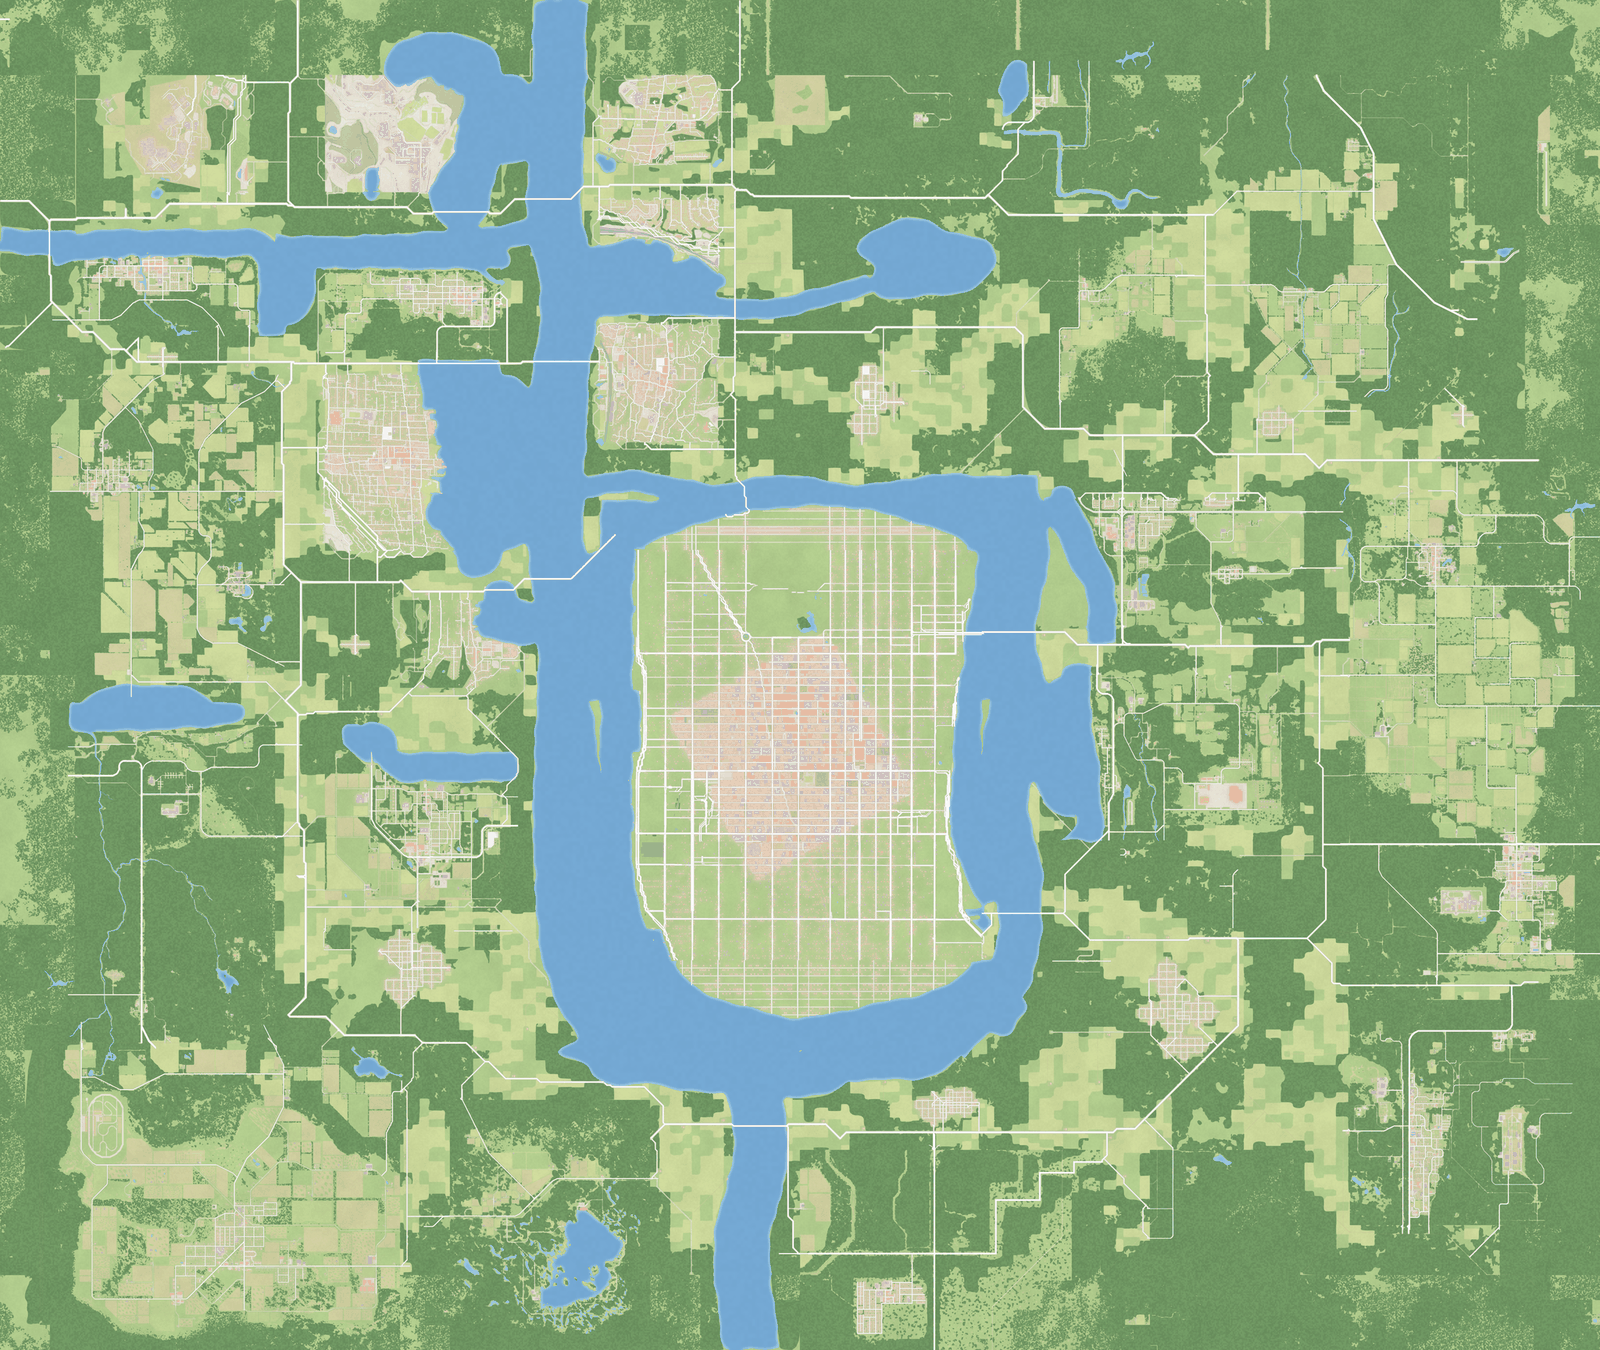
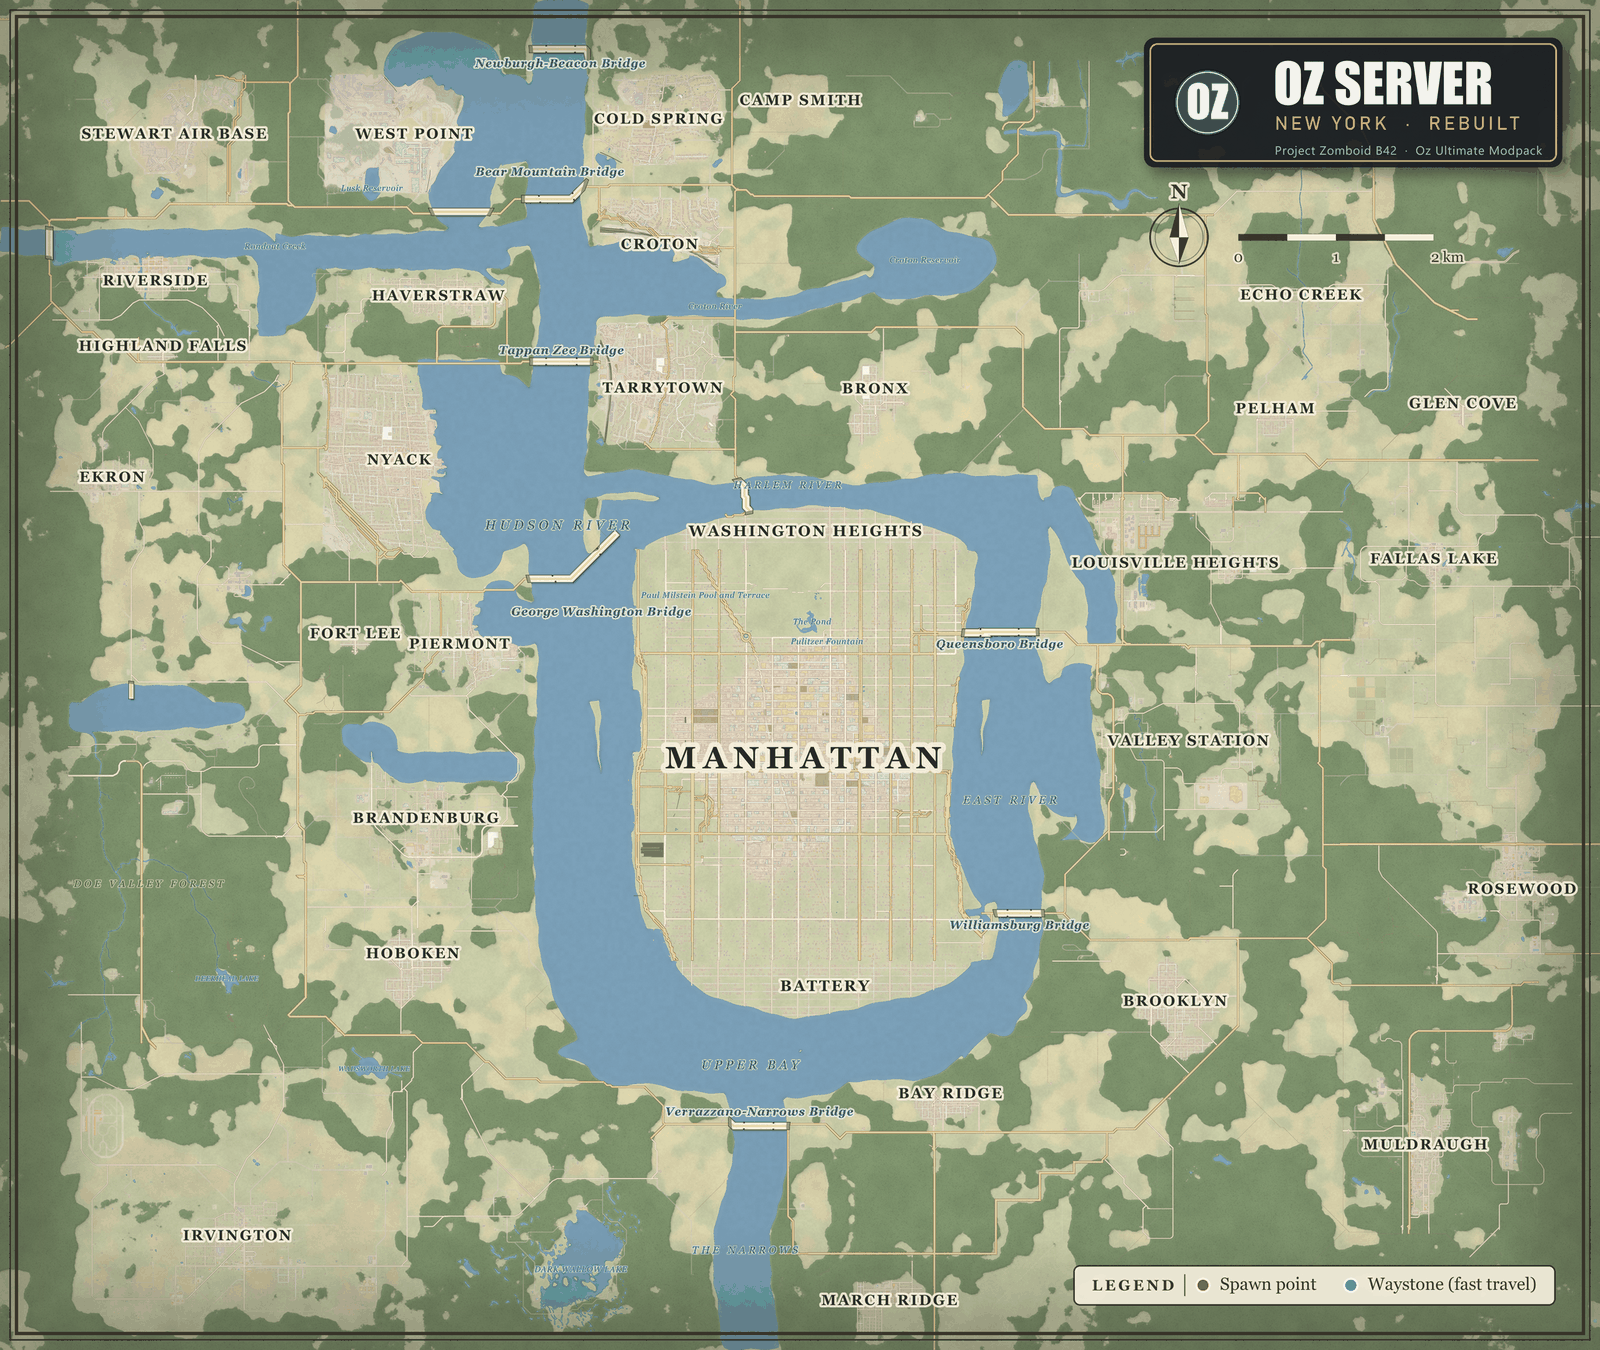
Site v4 release: Oz HD City Tiles link, mod ids from live ini (179, + OzHDTiles), world.png from SPAWN_r2 (1600 px, 1.38 MB)

diff --git a/index.html b/index.html
@@ -39,7 +39,7 @@ footer{padding:30px 0 50px;color:#7c8594;font-size:14px;border-top:1px solid #1d
 <h1>Oz Server</h1>
 <div class="tag">Massive city · First / third person / classic · PvP · /sethome</div>
 <p style="margin:0 0 14px;padding:10px 14px;border-left:4px solid var(--accent);background:rgba(245,166,35,.12);border-radius:6px;max-width:720px;font-size:15px"><b>Work in progress.</b> The server is live and playable, but still being built: mods change, it restarts when they update, and one more fresh world is likely before launch. Come test, report what breaks on Discord.</p>
-<p style="max-width:720px;margin:0 0 20px;font-size:18px">Project Zomboid Build 42, in first person, in a Manhattan rebuilt from real map data. a 15-floor Empire State Building with working elevators, foggy darker downtown weather districts, Hudson Valley towns and Knox County towns with farms and forest between them. New world as of v4. One Steam collection installs everything.</p>
+<p style="max-width:720px;margin:0 0 20px;font-size:18px">Project Zomboid Build 42, in first person, in a Manhattan rebuilt from real map data: a 15-floor Empire State Building with working elevators, foggy darker downtown weather districts, Hudson Valley towns and Knox County towns with farms and forest between them. New world as of v4. One Steam collection installs everything.</p>
 <div class="btns">
 <a class="btn" href="https://steamcommunity.com/sharedfiles/filedetails/?id=3819427155">Subscribe to the modpack</a>
 <a class="btn alt" href="https://discord.gg/v6JMDRYfX8">Join the Discord</a>
@@ -49,7 +49,7 @@ footer{padding:30px 0 50px;color:#7c8594;font-size:14px;border-top:1px solid #1d
 <section class="wrap"><h2>What makes it different</h2><div class="grid">
 <div class="card"><h3>First person</h3><p>Project Viewpoint: DayZ-style aiming and recoil, true ballistics, lean, prone and vault. HD floors, walls, cars, weapons and clothing, 3D trees, fences and props. Switch to third person or the classic top-down view any time (O).</p></div>
 <div class="card"><h3>A real city</h3><p>Midtown Manhattan from OpenStreetMap data: the street grid, avenues and parks, a varied skyline topped by the 15-floor Empire State Building, working elevators, farmland and towns around it.</p></div>
-<div class="card"><h3>Deep survival</h3><p>190+ curated mods: overhauled weather and lighting, immersive effects, vehicles, rafts and swimming, loot and crafting depth.</p></div>
+<div class="card"><h3>Deep survival</h3><p>About 180 curated mods: overhauled weather and lighting, immersive effects, vehicles, rafts and swimming, loot and crafting depth.</p></div>
 <div class="card"><h3>PvP with rules</h3><p>Safety toggle, factions, protected safehouses. 20 waystone beacons (with a teleport sound) mark PvP hot zones with supply drops.</p></div>
 <div class="card"><h3>Quality of life</h3><p><code>/sethome</code> and <code>/home</code>, fast travel between waystones you have found, 37 named spawn districts and towns, in-game rules panel and <code>/help</code>.</p></div>
 <div class="card"><h3>Fresh world</h3><p>New world started Oct 15 (v4); the old world is archived. Build 42.21, 24/7 hosting, backups every 6 hours, active admin, Discord support.</p></div>
@@ -85,7 +85,7 @@ footer{padding:30px 0 50px;color:#7c8594;font-size:14px;border-top:1px solid #1d
 <a href="https://steamcommunity.com/sharedfiles/filedetails/?id=3819468001"><img src="nyc.png" alt="OzNYC World map"></a>
 <a href="https://steamcommunity.com/sharedfiles/filedetails/?id=3819445749"><img src="waystones.png" alt="Oz Waystones"></a>
 </div>
-<p style="color:var(--muted)">Also: <a href="https://steamcommunity.com/sharedfiles/filedetails/?id=3819445594">Oz Server Pack</a> · <a href="https://steamcommunity.com/sharedfiles/filedetails/?id=3819445671">Oz Home</a> · <a href="https://steamcommunity.com/sharedfiles/filedetails/?id=3819445692">Oz Server Tweaks</a> · <a href="https://steamcommunity.com/sharedfiles/filedetails/?id=3819445719">OzLook shader pack</a> · <a href="https://steamcommunity.com/sharedfiles/filedetails/?id=3819476262">Oz Fast Boot</a> · <a href="https://steamcommunity.com/workshop/browse/?appid=108600&searchtext=Oz+HD+City+Tiles">Oz HD City Tiles</a> (HD city tiles, link updates at release) · <a href="https://steamcommunity.com/sharedfiles/filedetails/?id=3819662807">Oz HD Cars</a> (AI-upscaled vehicle skins, 2048) · <a href="https://steamcommunity.com/sharedfiles/filedetails/?id=3819663146">Oz HD Gear</a> (HD weapons, body and clothing)</p></section>
+<p style="color:var(--muted)">Also: <a href="https://steamcommunity.com/sharedfiles/filedetails/?id=3819445594">Oz Server Pack</a> · <a href="https://steamcommunity.com/sharedfiles/filedetails/?id=3819445671">Oz Home</a> · <a href="https://steamcommunity.com/sharedfiles/filedetails/?id=3819445692">Oz Server Tweaks</a> · <a href="https://steamcommunity.com/sharedfiles/filedetails/?id=3819445719">OzLook shader pack</a> · <a href="https://steamcommunity.com/sharedfiles/filedetails/?id=3819476262">Oz Fast Boot</a> · <a href="https://steamcommunity.com/sharedfiles/filedetails/?id=3820031105">Oz HD City Tiles</a> (HD asphalt, sidewalks, floors and walls) · <a href="https://steamcommunity.com/sharedfiles/filedetails/?id=3819662807">Oz HD Cars</a> (AI-upscaled vehicle skins, 2048) · <a href="https://steamcommunity.com/sharedfiles/filedetails/?id=3819663146">Oz HD Gear</a> (HD weapons, body and clothing)</p></section>
 
 <footer class="wrap">Oz Server is an unofficial community server, not affiliated with The Indie Stone or the Project Viewpoint authors. Map data © OpenStreetMap contributors (ODbL), built with KnoxMap. Every mod author is credited on their Workshop page.</footer>
 </body></html>
